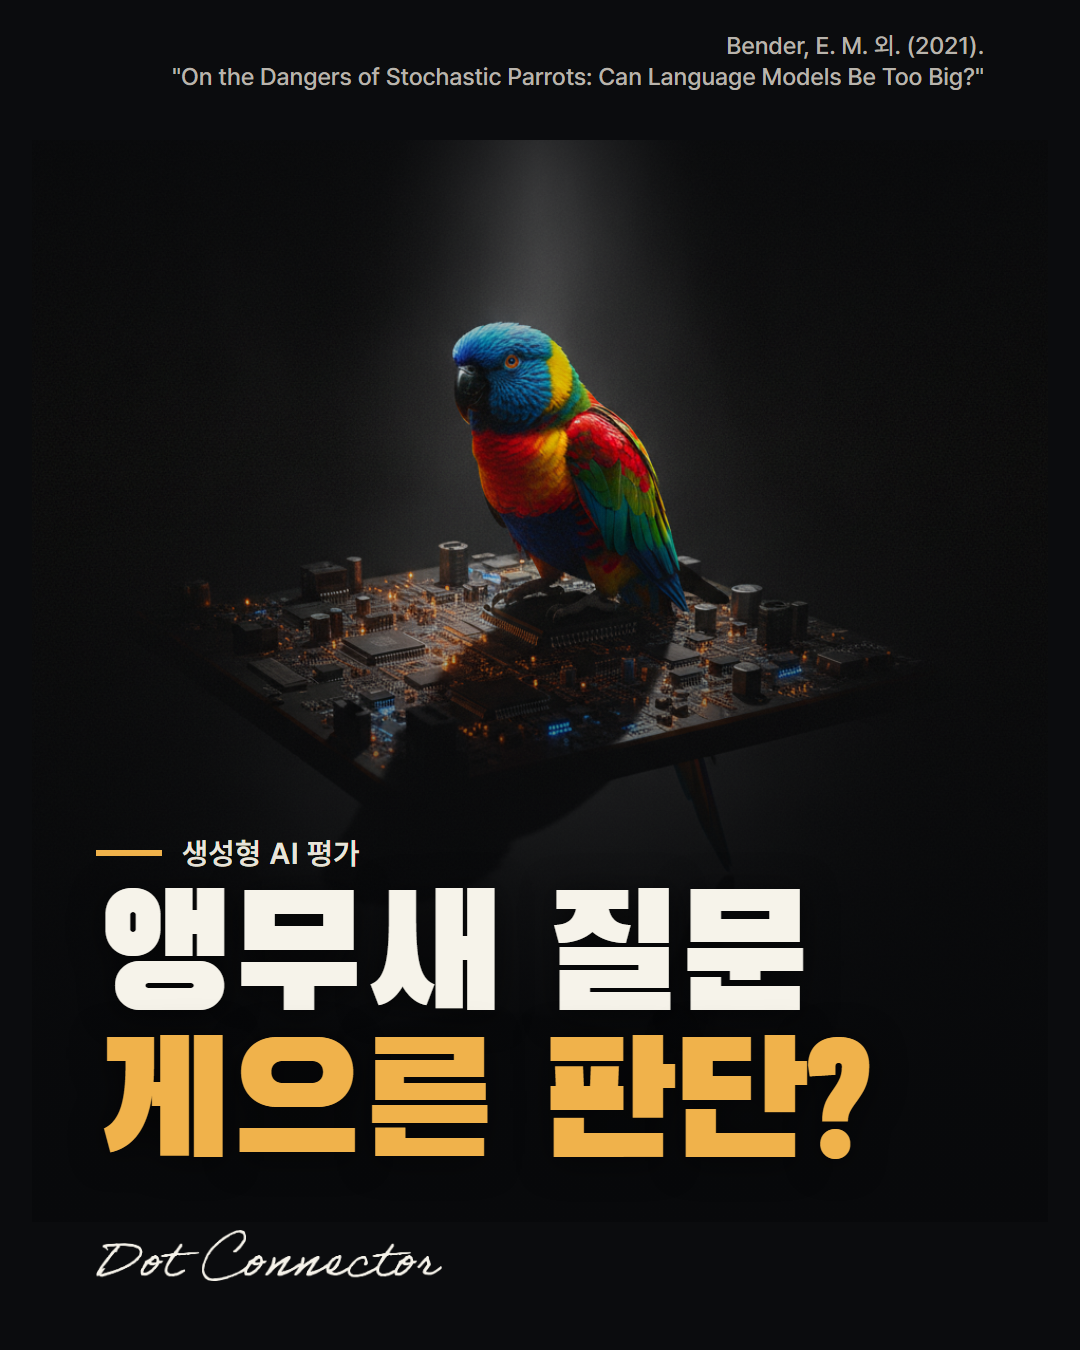
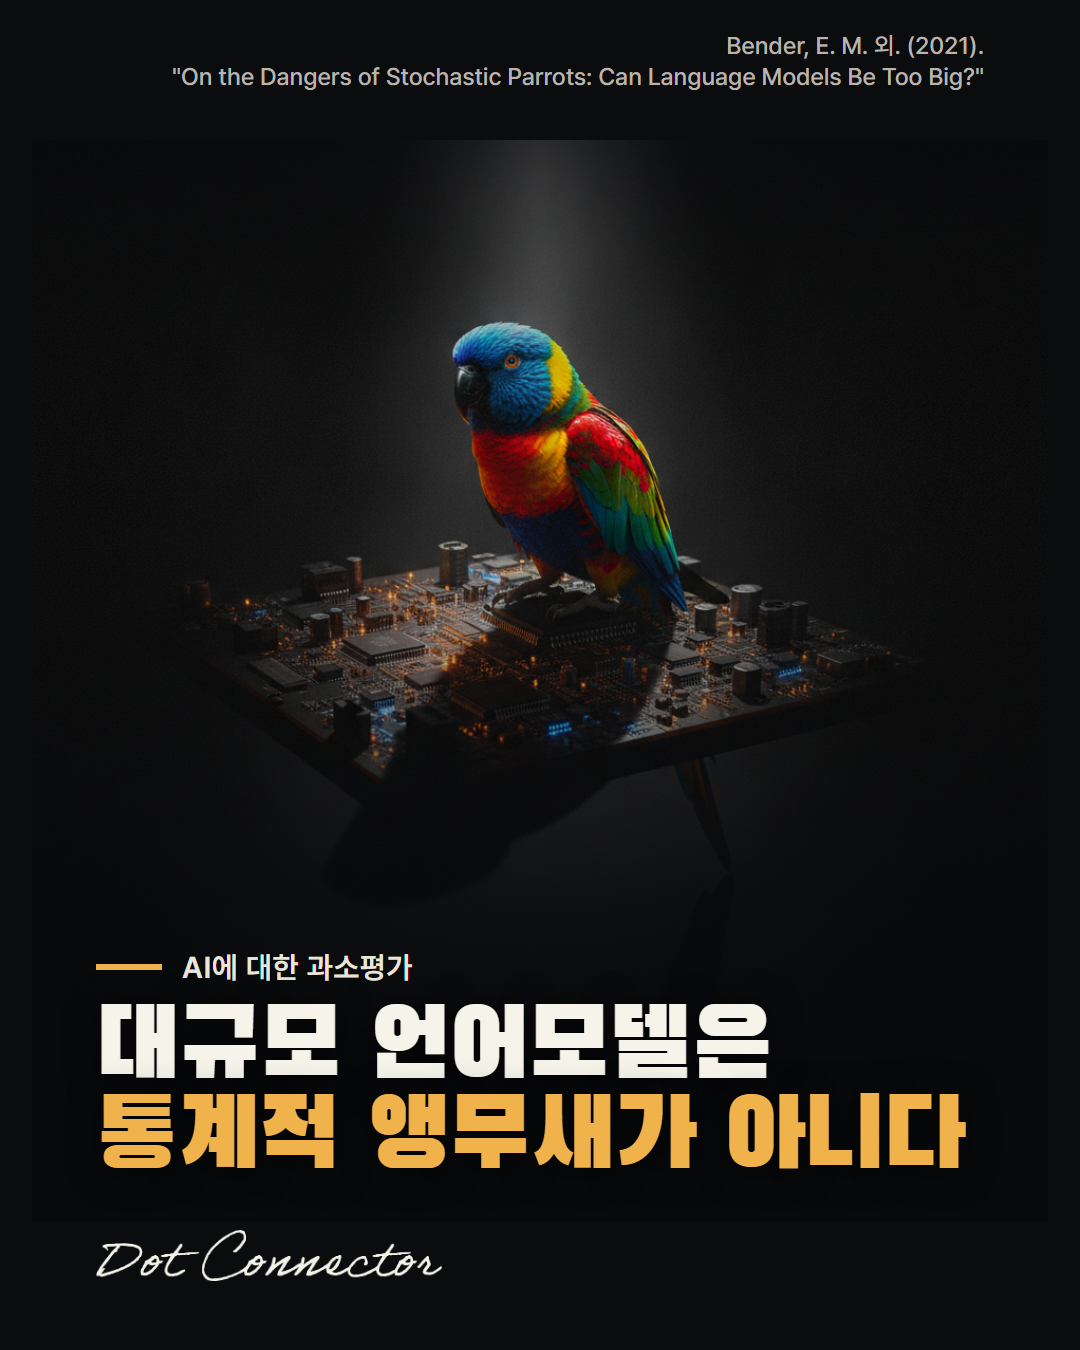
fix: LLM 칼럼 훅 헤드라인·아이브로우 교체 + 출처 엄밀화
- 훅 이미지: 헤드라인을 "대규모 언어모델은 / 통계적 앵무새가 아니다"로,
  아이브로우를 "AI에 대한 과소평가"로 교체(card.json 수정 후 무과금 재렌더).
- 본문 출처: Bender 외 2021 논문을 4인 전체 저자 + FAccT '21 학회 +
  페이지(610–623) + DOI까지 정식 인용 형식으로 다듬음.

Claude-Session: https://claude.ai/code/session_01UjUTnCteMAaRad16rijniU

Changed region(s): [[0.0917, 0.6222, 0.9167, 0.8711]]

diff --git a/_posts/2026-08-02-llm-beyond-stochastic-parrot.md b/_posts/2026-08-02-llm-beyond-stochastic-parrot.md
@@ -38,5 +38,5 @@ permalink: /post/llm-beyond-stochastic-parrot/
 
 ## 출처
 
-- Emily M. Bender · Timnit Gebru 외, "On the Dangers of Stochastic Parrots: Can Language Models Be Too Big?" (ACM FAccT, 2021) — '통계적 앵무새'라는 표현의 출처
+- Bender, E. M., Gebru, T., McMillan-Major, A., & Shmitchell, S. (2021). On the Dangers of Stochastic Parrots: Can Language Models Be Too Big? *Proceedings of the 2021 ACM Conference on Fairness, Accountability, and Transparency (FAccT '21)*, 610–623. https://doi.org/10.1145/3442188.3445922 — '통계적 앵무새(stochastic parrot)'라는 표현의 출처
 - 닷커넥터 자체 정리
